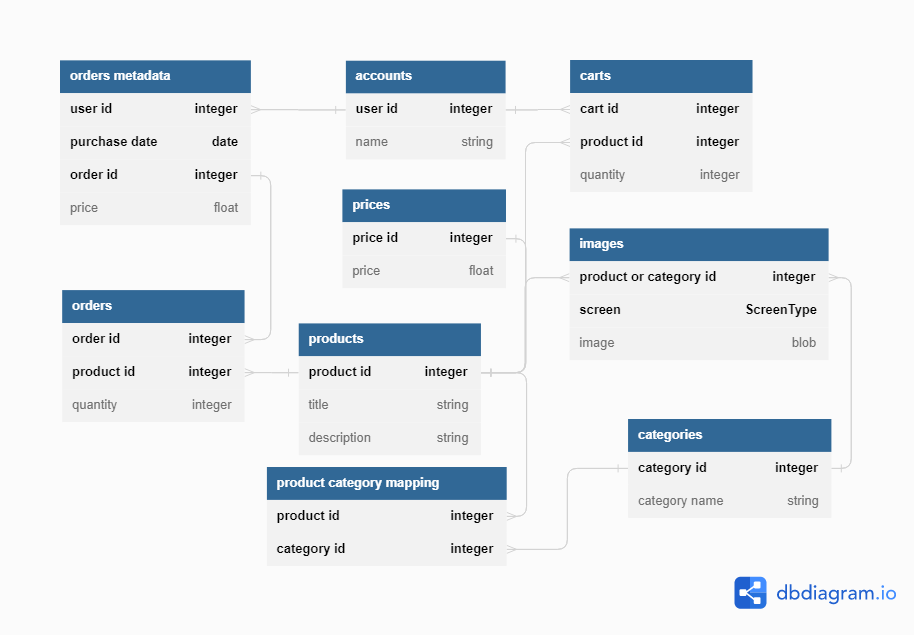
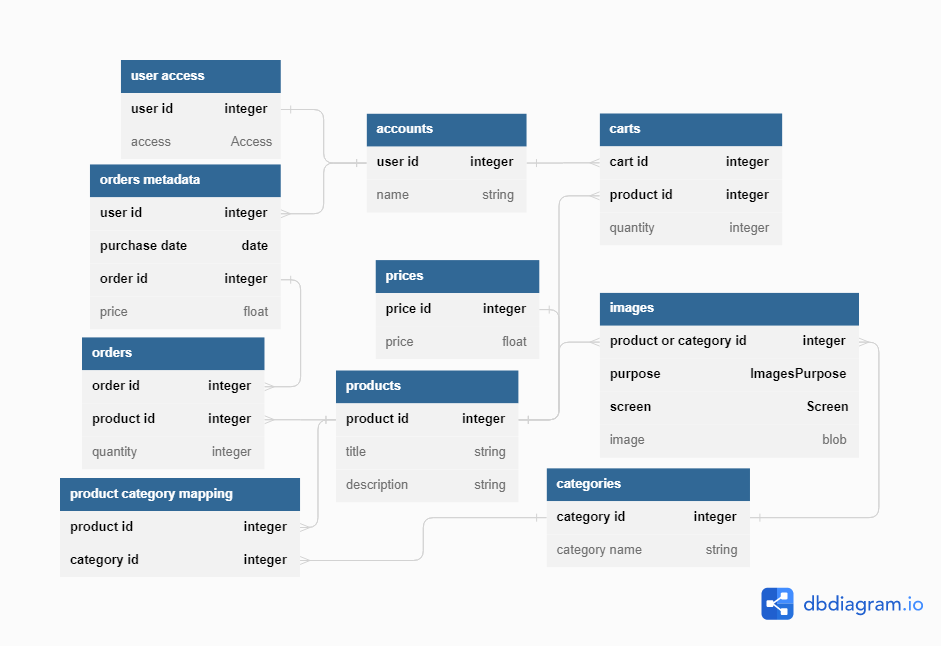
Added Required Classes and Enumerations
Added required classes and enumerations. Added a user access database for backend authentication for admin privileged API calls. Changed the name of some types in the API calls to match the chosen class and enumeration names.

diff --git a/README.md b/README.md
@@ -25,7 +25,6 @@
     - visit the Login or Signup page
         - in the Login or Signup page, users can
             - login or signup and on success be redirected back to the Home page
-                - if the user's cart is non-empty it'll be merged with their account's cart
     - logout if logged in
     - search products using a search box
         - When search is entered, user is directed to the Products page and can
@@ -88,11 +87,15 @@ Helps users securely make a purchase. User does not interact with this service d
 *Above is a sql-like view of the tables in the nosql database. The only exception is the images table which will be implemented as a blob store.
 
 #### accounts
-- Document path: accounts/{user ids}
+- Document path: accounts/{user id}
 - Data:
     - Name
         - the user's name
-
+#### user access
+- Document path: accounts/{user id}
+- Data:
+    access
+        - User's access level; a string that's either USER or ADMIN.
 #### carts
 - Document path: carts/{cart id}/products/{product id}
 - Data:
@@ -146,26 +149,23 @@ Helps users securely make a purchase. User does not interact with this service d
         - the product or category id the images at this path are associated with. To keep the category and product id's from clashing the ids generated for each product and category should be obtained from the same key generator.
 - Data:
     - images
-        - responsive images with predefined names telling which screen is most appropriate for the image(ex 400w_1.png, 800w_1.png).
+        - responsive images with predefined names telling an image use case and screen it's most appropriate (ex thumbnail_400.png, thumbnail_800.png).
 
 
 
 
 ## Api of each service
-*All api calls are asynchronous and return a promise. When the promise succeeds, the data recieved is in the api's Return description. When the promise fails, the description of the exception passed as a string can be found in the api's Exceptions section.
-### authentication
+- *All api calls are asynchronous and return a promise. When the promise fails, the description of the error passed as a string in the catch clause can be found in the api's Errors section.
+- Library: import {function_name1, function_name2, ...} from "path/to/api's/folder/${api's name}.js" 
 
-#### login(email : string, password : string) : None
-
+### auth.js
+#### login(email : string, password : string) : User
 ##### Description
 Logs user into their account. On success, behind the scenes an authentication object is recieved and passed during other api calls.
-
 ##### Parameters
 - email: unique email bound to user's account
 - password: password associated to user's account
-##### Returns
-- no data
-##### Exceptions
+##### Errors
 - EMAIL_DNE: The email does not exist.
 - WRONG_PASSWORD: The password is incorrect.
 - SERVER_ERROR: The api call failed because the server did not respond.
@@ -174,10 +174,10 @@ Logs user into their account. On success, behind the scenes an authentication ob
 
 #### signup(username : string, email : string, password : string) : None
 
-### account
+### account.js
 #### get_user() : User
 
-### category
+### category.js
 #### get_category(category_id : string) : Category
 #### get_categories(after_document? : reference, limit = 100) : Categories
 #### create_category(category_id : string, data : object) : None
@@ -185,34 +185,35 @@ Logs user into their account. On success, behind the scenes an authentication ob
 #### delete_category(category_id : string) : None
 
 
-### Products
+### product.js
 #### get_product(product_id : string) : Product
 #### get_products(after_document? : reference, limit = 100) : Products
 #### create_product(product_id : string, data : object) : None
 #### update_product(product_id : string, data_to_change : object) : None
 #### delete_product(product_id : string) : None
 
-### Images' manager
-#### get_image(product_or_category_id : string, screen : ScreenType, image_number : integer) : Image
-#### add_image(product_or_category_id : string, screen : ScreenType, image_number : integer, image : File) : None
-#### delete_image(product_or_category_id : string, screen : ScreenType, image_number : integer) : None
+### image.js
+#### get_image(product_or_category_id : string, screen : Screen, purpose : ImagesPurpose) : Image
+#### add_image(product_or_category_id : string, screen : Screen, purpose : ImagesPurpose, image : File) : None
+#### delete_image(product_or_category_id : string, screen : Screen, purpose : ImagesPurpose) : None
 
-### Search
+### search.js
 #### get_products_by_category(category_name : string) : Products
 #### get_products_by_title(title : string) : Products
 
-### Carts
+### cart.js
 #### get_cart(user_id : string) : Cart
+#### add_to_cart(user_id : string, product_id : string, quantity : integer) : None
 #### update_cart(user_id : string, product_id : string, quantity : integer ) : None
 #### delete_from_cart(user_id : string, product_id : string) : None
 
-### Checkouts
+### checkout.js
 #### get_stripe_sk(user_id : string) : string 
 
-### Orders' histories
+### order.js
 #### get_order_history(user_id : string, after_document? : reference, limit = 100) : Orders
 
-### Products' manager
+### admin.js
 #### add_product(title : string, description : string, images : Images) : None
 #### add_category(category_name : string, images : Images) : None
 #### delete_category(category_id : string) : None
@@ -220,20 +221,22 @@ Logs user into their account. On success, behind the scenes an authentication ob
 
 
 ### Classes
+- Library: import {function_name1, function_name2, ...} from "path/to/class's/folder/{class's name}.js" 
 #### User
-#### Product
-#### Products
-#### Category
-#### Categories
-#### Image
-#### Images
 #### Cart
-#### Order
 #### Orders
+#### Order
+#### Products
+#### Categories
+#### Images
+#### Product
+#### Category
+#### Image
 
 ### Enumerations
-*Note: format is "Namespace name"."Enumeration Name"
-#### Image.ScreenType 
+- Library: import {function_name1, function_name2, ...} from "path/to/enum's/folder/{enum's name}.js"
+#### Screen 
+#### ImagesPurpose
 
 ## Web pages
 #### Home
